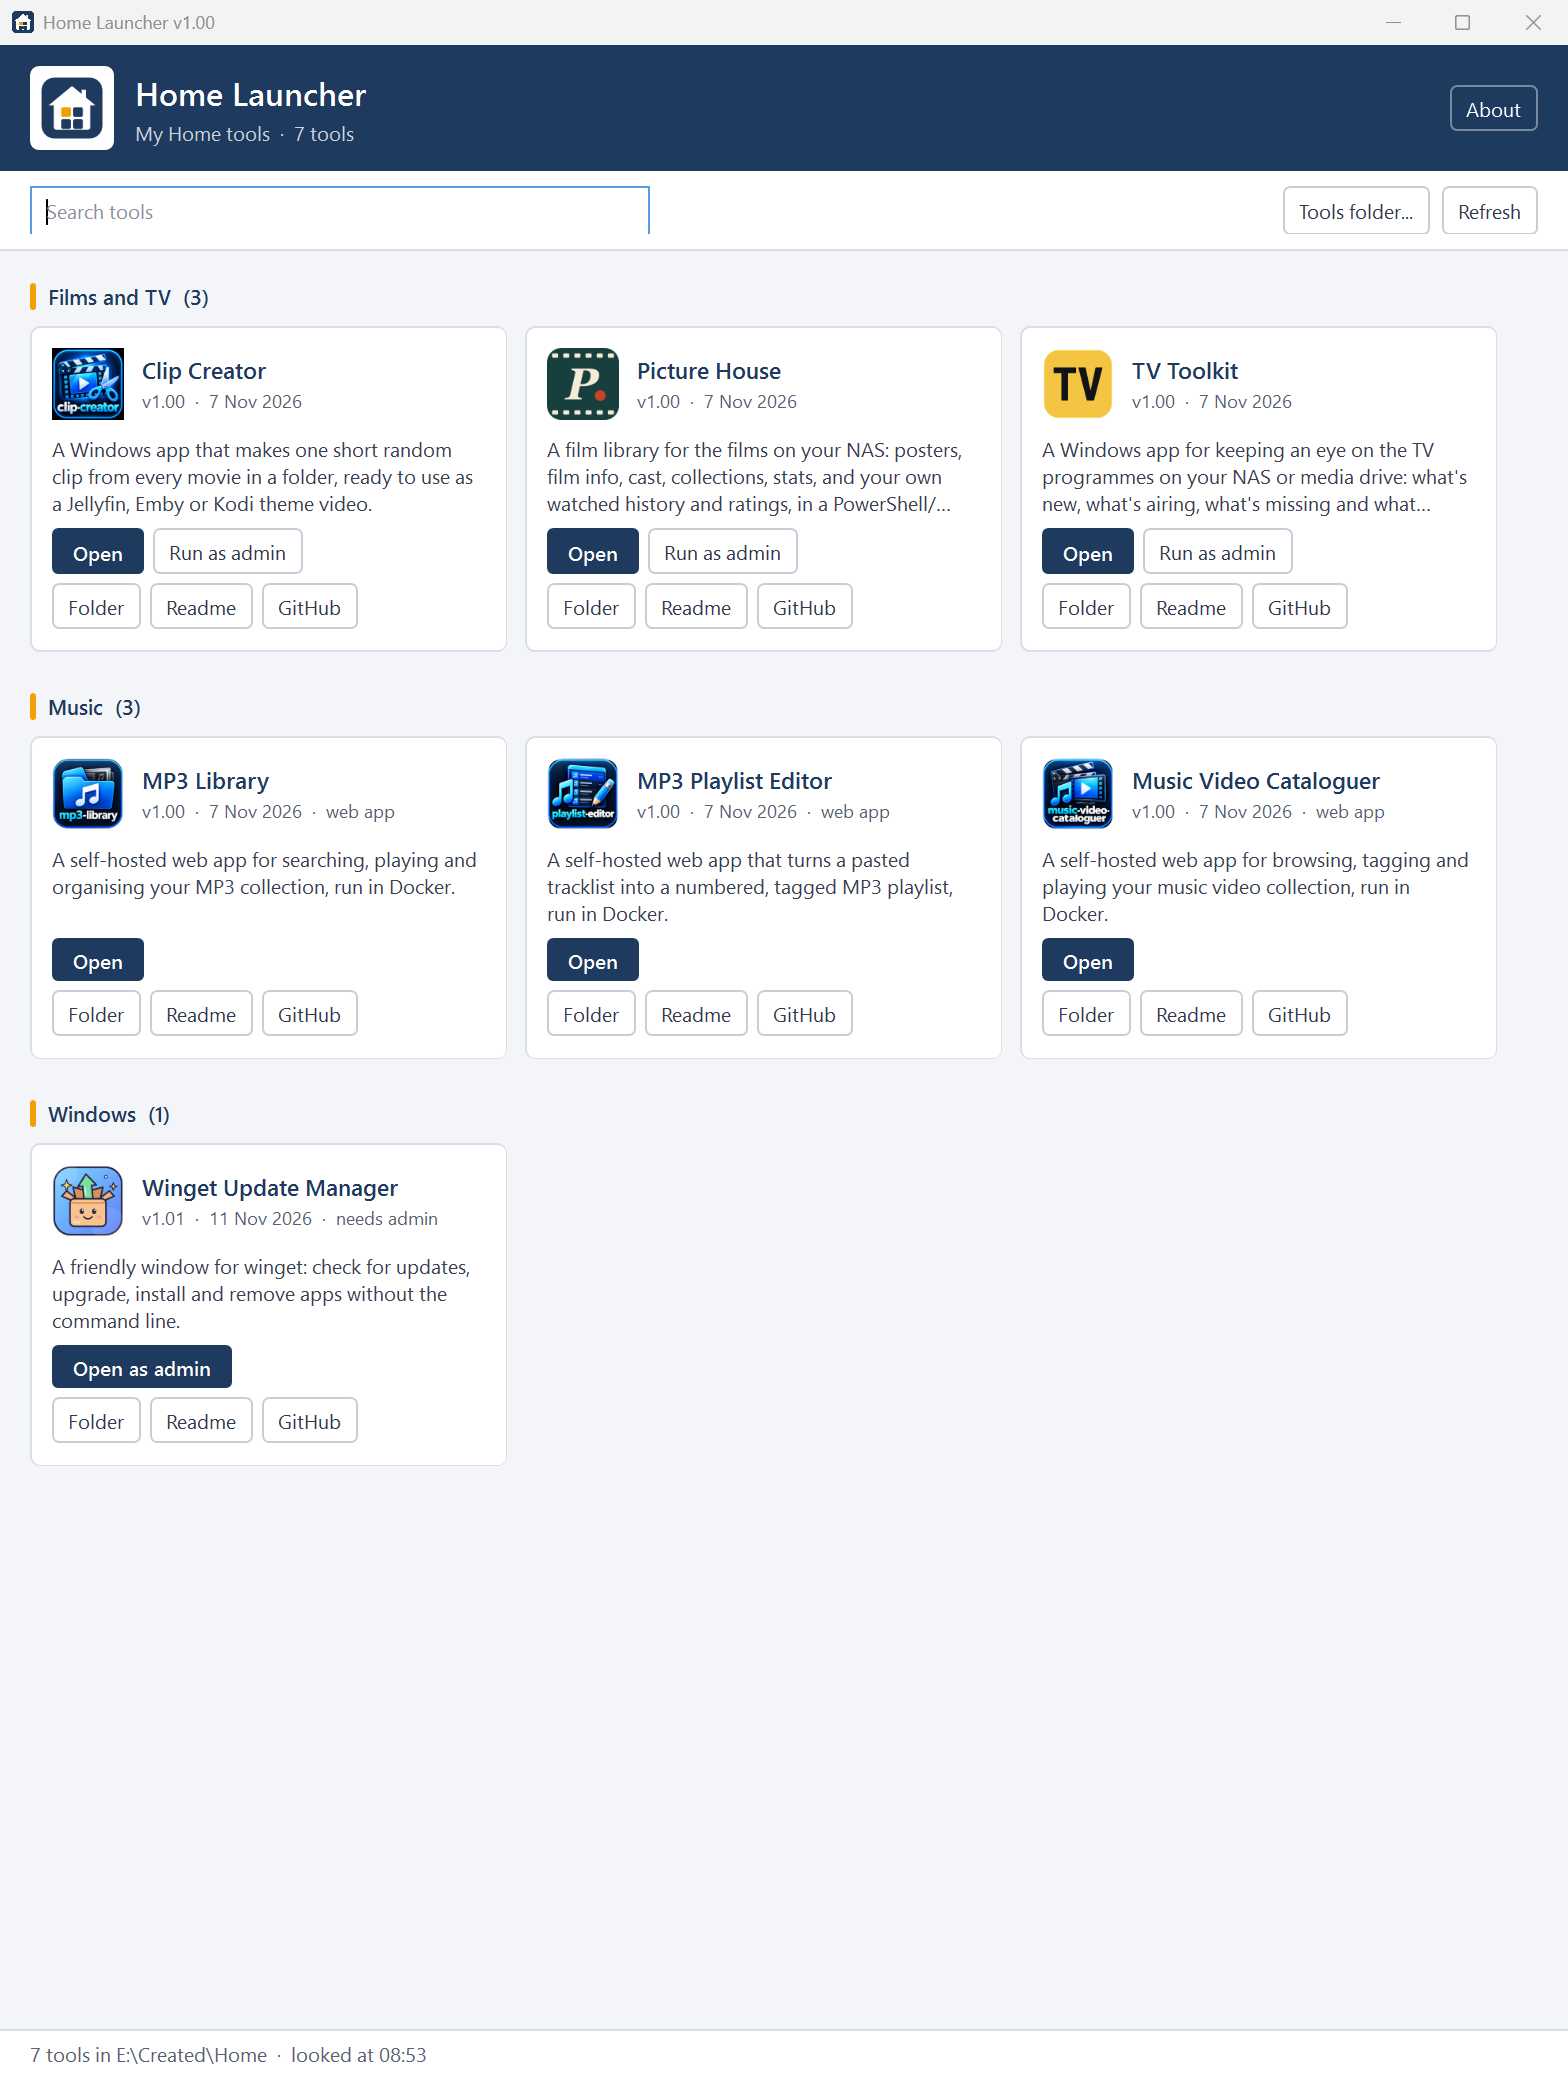
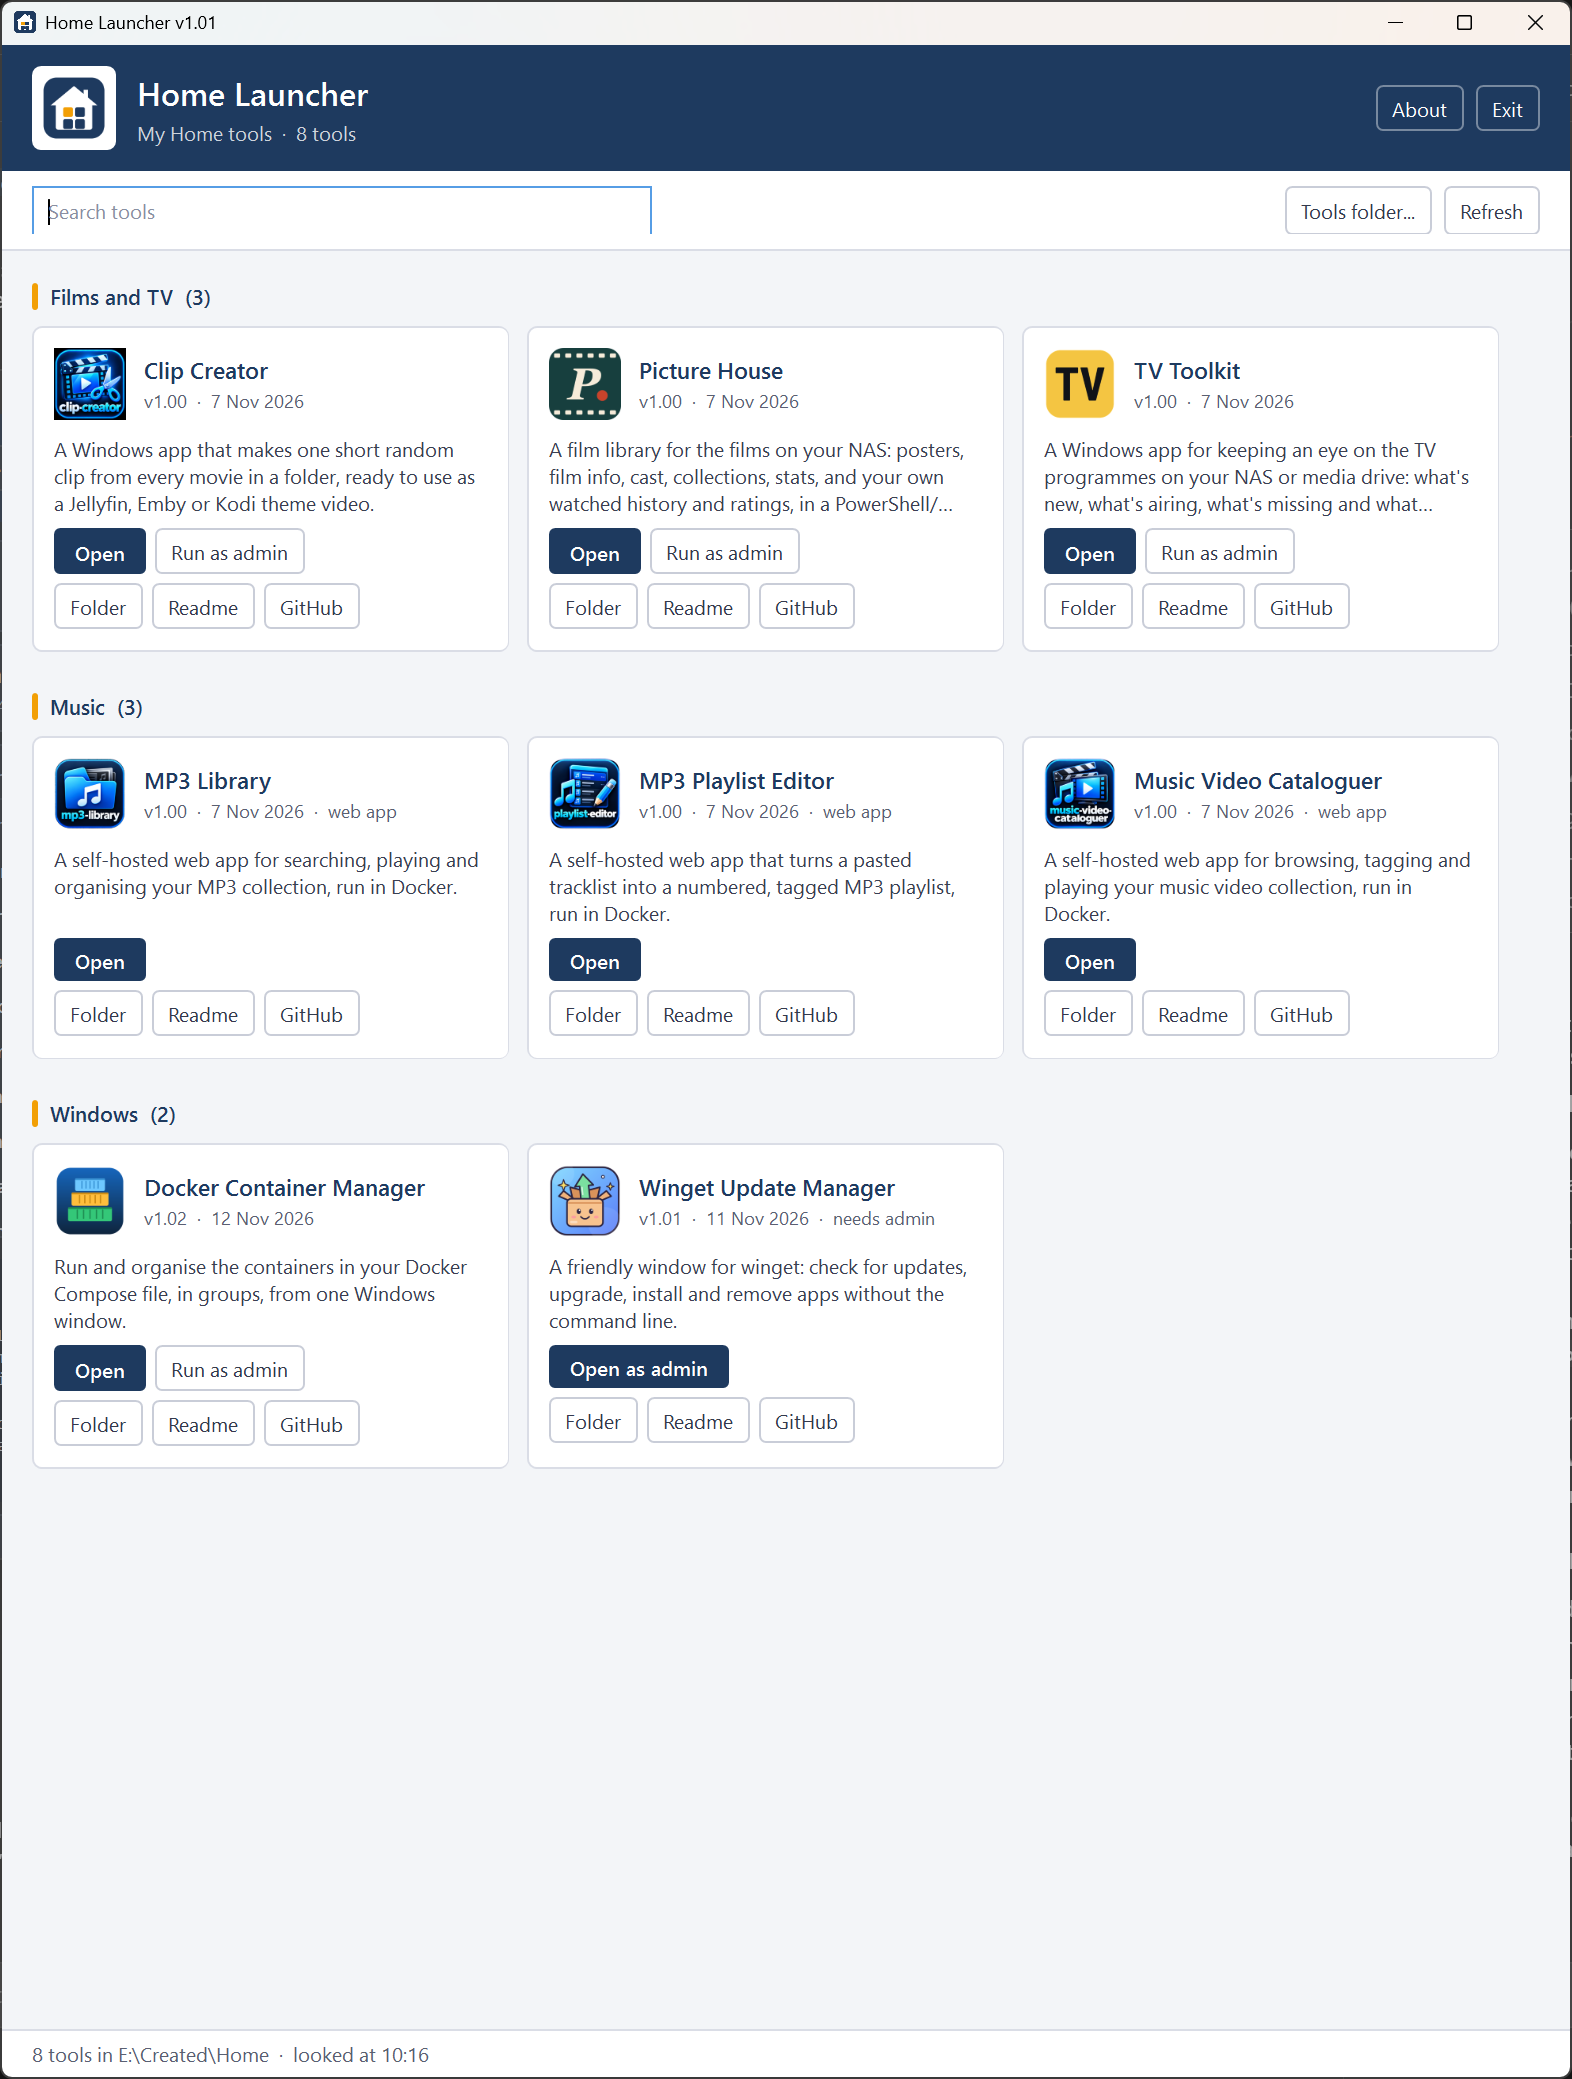
v1.01: Exit button, built on Launcher Engine v1.02
Adds the engine's new Exit button. Build-Exe.cmd now needs engine v1.02 or later. Updates the README, CHANGELOG and main-window screenshot.

Claude-Session: https://claude.ai/code/session_01RoDiwpWhJZBtw7bUR5Dhya

diff --git a/README.md b/README.md
@@ -6,7 +6,7 @@
 
 One window that lists every Home tool, shows its version and opens it, its folder, its help guide or its GitHub repo.
 
-![Version](https://img.shields.io/badge/version-v1.00-blue) ![Platform](https://img.shields.io/badge/platform-Windows-0078D6) ![PowerShell](https://img.shields.io/badge/PowerShell-5.1%20%7C%207-5391FE) ![Licence](https://img.shields.io/badge/licence-MIT-green) ![Last commit](https://img.shields.io/github/last-commit/jason4bury/Home-Launcher)
+![Version](https://img.shields.io/badge/version-v1.01-blue) ![Platform](https://img.shields.io/badge/platform-Windows-0078D6) ![PowerShell](https://img.shields.io/badge/PowerShell-5.1%20%7C%207-5391FE) ![Licence](https://img.shields.io/badge/licence-MIT-green) ![Last commit](https://img.shields.io/github/last-commit/jason4bury/Home-Launcher)
 
 ## ✨ Features
 
@@ -31,7 +31,7 @@ A PowerShell/WPF window built on the shared Launcher Engine. It looks in the Hom
 - Windows 10 or 11 with Windows PowerShell 5.1 (or PowerShell 7).
 - The Home tools in the house-style layout: `Home\<Tool>\Builds\` and `Home\<Tool>\Source\`, with private tools in `Home\Private\<Tool>\`.
 - For the vault: Windows Pro or higher (BitLocker), and an administrator account to accept the UAC prompt.
-- To run from source or build the exe: the Launcher Engine (v1.01 or later) at `E:\Created\_shared\Launcher-Engine\Source\`. It is a private repo.
+- To run from source or build the exe: the Launcher Engine (v1.02 or later) at `E:\Created\_shared\Launcher-Engine\Source\`. It is a private repo.
 
 ## 📦 Installation
 
@@ -41,7 +41,7 @@ A PowerShell/WPF window built on the shared Launcher Engine. It looks in the Hom
 
 ### Build the exe
 
-Double-click `Build-Exe.cmd`. It finds the engine in `E:\Created\_shared\`, checks the version in the script matches the newest CHANGELOG entry and the engine is v1.01 or later, runs PSScriptAnalyzer (if installed) on the wrapper and the engine, then pastes the engine, `profile.home.json` and the icon into one script and compiles it with [ps2exe](https://github.com/MScholtes/PS2EXE) (`-STA -noConsole`). The result is saved to the project's `Builds\` folder, outside the repo, as `Home Launcher v<version>.exe`, and needs no other files. It installs ps2exe for your user the first time and logs to `Build-Exe.log`. Set the `LAUNCHER_ENGINE` environment variable to build against another copy of the engine.
+Double-click `Build-Exe.cmd`. It finds the engine in `E:\Created\_shared\`, checks the version in the script matches the newest CHANGELOG entry and the engine is v1.02 or later, runs PSScriptAnalyzer (if installed) on the wrapper and the engine, then pastes the engine, `profile.home.json` and the icon into one script and compiles it with [ps2exe](https://github.com/MScholtes/PS2EXE) (`-STA -noConsole`). The result is saved to the project's `Builds\` folder, outside the repo, as `Home Launcher v<version>.exe`, and needs no other files. It installs ps2exe for your user the first time and logs to `Build-Exe.log`. Set the `LAUNCHER_ENGINE` environment variable to build against another copy of the engine.
 
 The exe is not signed by this script. Once `E:\Created\_shared\Build-Tool.ps1` is in place it replaces `Build-Exe.cmd` and signs the exe:
 
@@ -51,7 +51,7 @@ E:\Created\_shared\Build-Tool.ps1 -Project "E:\Created\Home\Home-Launcher"
 
 ## 🚀 Usage
 
-Start the exe (or `Start Home Launcher.cmd`). Double-click a tile or press **Open** to start a tool. The status bar says what was started, and the About box shows the version, the folder being scanned and the shortcuts.
+Start the exe (or `Start Home Launcher.cmd`). Double-click a tile or press **Open** to start a tool. The status bar says what was started, and the About box shows the version, the folder being scanned and the shortcuts. **Exit** closes the launcher, locking any private tools first.
 
 | Key | Does |
 | --- | --- |

diff --git a/CHANGELOG.md b/CHANGELOG.md
@@ -6,6 +6,15 @@ All notable changes to this project are documented here. The format follows
 
 ## [Unreleased]
 
+## [1.01] - 2026-11-12
+
+### Added
+- **Exit** button in the header, next to **About**, to close the launcher. Private tools
+  and the vault are still locked on the way out.
+
+### Changed
+- Built on Launcher Engine v1.02; `Build-Exe.cmd` now needs v1.02 or later.
+
 ## [1.00] - 2026-11-11
 First release.
 
